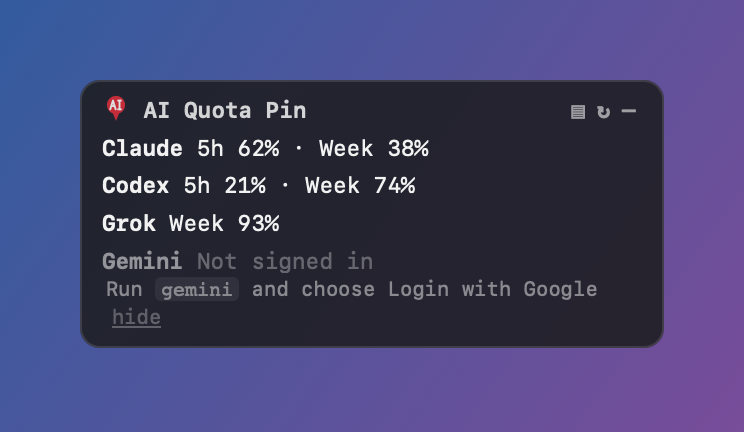
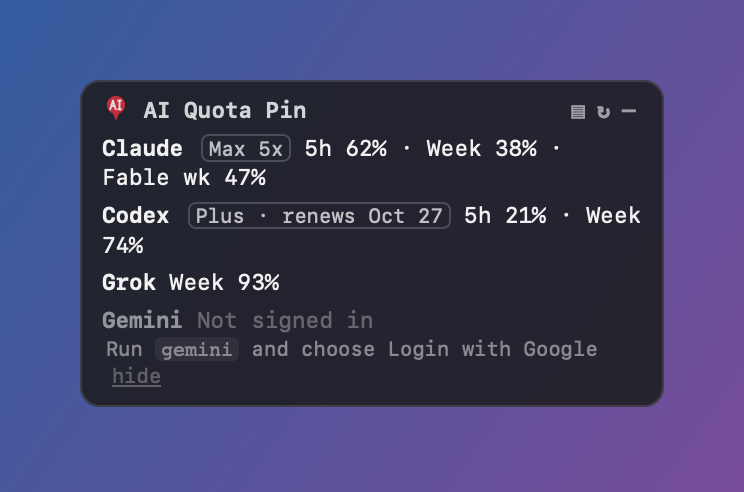
Claude model-specific weekly limits (e.g. Fable) + plan badge; Codex plan & renewal; docs

Changed region(s): [[0.0927, 0.1505, 0.8965, 0.8426], [0.7728, 0.4213, 0.8656, 0.4514]]

diff --git a/ui/app.js b/ui/app.js
@@ -21,9 +21,10 @@ function render() {
       return `<div class="w"><span class="lbl">${esc(w.label)}</span>${w.used == null ? `<span class="det">${esc(w.detail)}</span>` : `<span class="bar ${cls}"><i style="width:${Math.min(p, 100)}%"></i></span><span class="pct">${p}%</span>`}<span class="rs">${w.resets_at ? `↻${left(w.resets_at)} · ${at(w.resets_at)}` : ''}</span></div>`;
     }).join('');
     const sum = u.windows.map((w) => w.used == null ? `${esc(w.label)} ${esc(w.detail)}` : `${esc(w.label)} ${Math.round(w.used)}%`).join(' · ');
+    const plan = u.plan ? ` <span class="plan">${esc(u.plan)}${u.renews_at ? ` · renews ${new Date(u.renews_at * 1000).toLocaleDateString([], { month: 'short', day: 'numeric' })}` : ''}</span>` : '';
     const note = u.note ? ` <span class="note">${esc(u.note)}</span>` : '';
     const hint = u.status === 'signin' ? `<div class="hint">${esc(u.hint).replace(/`([^`]+)`/g, '<code>$1</code>')} <button class="x" data-hide="${esc(u.id)}" title="Hide this provider">hide</button></div>` : '';
-    return `<div class="p ${u.status === 'na' || u.status === 'signin' ? 'na' : ''}" data-tauri-drag-region><span class="pn">${esc(u.name)}</span> ${u.windows.length ? `<span class="sum">${sum}</span>` : ''}${u.status === 'na' || u.status === 'signin' || !compact ? note : ''}${hint}${ws}</div>`;
+    return `<div class="p ${u.status === 'na' || u.status === 'signin' ? 'na' : ''}" data-tauri-drag-region><span class="pn">${esc(u.name)}</span>${plan} ${u.windows.length ? `<span class="sum">${sum}</span>` : ''}${u.status === 'na' || u.status === 'signin' || !compact ? note : ''}${hint}${ws}</div>`;
   }).join('') || '<div class="na">No AI tools detected</div>';
   if (html === last && compact === lastC && !document.body.classList.contains('collapsed')) return; // nothing changed: skip DOM + resize
   last = html; lastC = compact; $('rows').innerHTML = html;

diff --git a/ui/style.css b/ui/style.css
@@ -11,3 +11,4 @@ button{background:none;border:0;color:inherit;font:inherit;cursor:pointer;opacit
 body.collapsed #note{display:none}body.collapsed #pin{display:block}
 .compact .w{display:none}.compact .sum{display:inline}.sum{display:none}
 .det{width:104px;opacity:.85}
+.plan{font-size:10px;opacity:.75;border:1px solid rgba(255,255,255,.25);border-radius:4px;padding:0 3px;margin-left:2px}

diff --git a/src-tauri/src/providers/claude.rs b/src-tauri/src/providers/claude.rs
@@ -33,11 +33,68 @@ fn read_token() -> Option<String> {
     None
 }
 
+/// Usage windows. Prefers the generic `limits` list, which names model-specific weekly
+/// allowances (e.g. `kind: weekly_scoped, scope.model.display_name: "Fable"`), so new models
+/// appear automatically. Falls back to the older `five_hour` / `seven_day*` objects.
 fn parse(b: &Value) -> Vec<Window> {
-    [("five_hour", "5h"), ("seven_day", "Week"), ("seven_day_opus", "Opus wk"), ("seven_day_sonnet", "Sonnet wk")]
-        .iter().filter(|(k, _)| b[*k].is_object())
-        .map(|(k, l)| Window { label: l.to_string(), used: num(&b[*k]["utilization"]), resets_at: ts(&b[*k]["resets_at"]), detail: None })
-        .collect()
+    let mut out = Vec::new();
+    for l in b["limits"].as_array().into_iter().flatten() {
+        let scope = l["scope"]["model"]["display_name"].as_str().or(l["scope"]["surface"].as_str());
+        let label = match (l["kind"].as_str().unwrap_or(""), scope) {
+            ("session", _) => "5h".to_string(),
+            ("weekly_all", _) => "Week".to_string(),
+            (k, Some(m)) if k.starts_with("weekly") => format!("{m} wk"),
+            (k, Some(m)) => format!("{m} {k}"),
+            (k, None) => k.replace('_', " "),
+        };
+        out.push(Window { label, used: num(&l["percent"]), resets_at: ts(&l["resets_at"]), detail: None });
+    }
+    if out.is_empty() {
+        let mut keys: Vec<_> = b.as_object().into_iter().flatten()
+            .filter(|(k, v)| (k.as_str() == "five_hour" || k.starts_with("seven_day")) && v["utilization"].is_number()).collect();
+        keys.sort_by_key(|(k, _)| (k.as_str() != "five_hour", k.as_str() != "seven_day", k.to_string()));
+        for (k, v) in keys {
+            let label = match k.as_str() { "five_hour" => "5h".into(), "seven_day" => "Week".into(),
+                k => format!("{} wk", { let m = k.trim_start_matches("seven_day_"); let mut c = m.chars(); c.next().map(|f| f.to_uppercase().collect::<String>() + c.as_str()).unwrap_or_default() }) };
+            out.push(Window { label, used: num(&v["utilization"]), resets_at: ts(&v["resets_at"]), detail: None });
+        }
+    }
+    out
+}
+
+fn plan_name(org_type: &str, tier: &str) -> Option<String> {
+    let t = tier.to_lowercase();
+    Some(if t.contains("max_20x") { "Max 20x" } else if t.contains("max_5x") { "Max 5x" }
+        else if org_type.contains("max") || t == "max" { "Max" } else if org_type.contains("pro") || t == "pro" { "Pro" }
+        else if org_type.contains("team") || t == "team" { "Team" } else if org_type.contains("enterprise") || t == "enterprise" { "Enterprise" }
+        else { return None }.to_string())
+}
+fn profile_path() -> PathBuf { dirs::config_dir().unwrap_or_default().join("ai-quota-pin/claude-plan.json") }
+const PROFILE_EVERY: i64 = 6 * 3600;
+
+/// Plan via /api/oauth/profile (what Claude Code uses), at most every 6 h, cached on disk.
+/// Only the plan label is stored — never name, email or ids. The profile has no renewal date.
+fn plan(token: &str) -> Option<String> {
+    let cached = read_json(&profile_path());
+    if let Some(c) = &cached { if now() - c["at"].as_i64().unwrap_or(0) < PROFILE_EVERY { return c["plan"].as_str().map(String::from); } }
+    let fresh = get_json(agent().get("https://api.anthropic.com/api/oauth/profile")
+        .set("Authorization", &format!("Bearer {token}")).set("anthropic-beta", "oauth-2025-04-20")).ok()
+        .and_then(|p| plan_name(p["organization"]["organization_type"].as_str().unwrap_or(""), p["organization"]["rate_limit_tier"].as_str().unwrap_or("")));
+    // Fall back to what Claude Code stored with its credentials.
+    let fresh = fresh.or_else(|| cached.as_ref().and_then(|c| c["plan"].as_str().map(String::from))).or_else(local_plan);
+    let _ = std::fs::create_dir_all(profile_path().parent().unwrap());
+    let _ = std::fs::write(profile_path(), serde_json::to_vec(&serde_json::json!({ "at": now(), "plan": fresh })).unwrap());
+    fresh
+}
+fn local_plan() -> Option<String> {
+    let c = read_json(&dir().join(".credentials.json")).or_else(|| {
+        #[cfg(target_os = "macos")]
+        { let o = std::process::Command::new("/usr/bin/security").args(["find-generic-password", "-s", "Claude Code-credentials", "-w"]).output().ok()?;
+          return serde_json::from_slice(&o.stdout).ok(); }
+        #[allow(unreachable_code)] None
+    })?;
+    let o = &c["claudeAiOauth"];
+    plan_name(o["subscriptionType"].as_str().unwrap_or(""), o["rateLimitTier"].as_str().unwrap_or(""))
 }
 
 /// Rough local fallback: tokens Claude Code logged in the last 5 hours (ccusage-style JSONL scan,
@@ -94,7 +151,8 @@ impl Provider for Claude {
             if let Some(c) = read_json(&cache_path()) {
                 let at = c["at"].as_i64().unwrap_or(0);
                 let w = parse(&c["body"]);
-                if !w.is_empty() { let mut u = Usage::ok(self, w, None); u.updated_at = at; st.last = Some(u); }
+                if !w.is_empty() { let mut u = Usage::ok(self, w, None); u.updated_at = at;
+                    u.plan = read_json(&profile_path()).and_then(|c| c["plan"].as_str().map(String::from)).or_else(local_plan); st.last = Some(u); }
                 if now() - at < MIN_GAP { st.next_at = at + MIN_GAP; }
             }
         }
@@ -113,7 +171,8 @@ impl Provider for Claude {
                     st.backoff = 0;
                     let _ = std::fs::create_dir_all(cache_path().parent().unwrap());
                     let _ = std::fs::write(cache_path(), serde_json::to_vec(&serde_json::json!({ "at": now(), "body": b })).unwrap());
-                    let u = Usage::ok(self, parse(&b), None);
+                    let mut u = Usage::ok(self, parse(&b), None);
+                    u.plan = plan(&t);
                     st.last = Some(u.clone());
                     return u;
                 }

diff --git a/src-tauri/src/providers/mod.rs b/src-tauri/src/providers/mod.rs
@@ -33,11 +33,15 @@ pub struct Usage {
     /// One-line fix for "signin", e.g. "Run `claude` and log in".
     pub hint: Option<String>,
     pub updated_at: i64,
+    /// Plan name as reported by the provider (e.g. "Max 20x", "Plus"). Never inferred.
+    pub plan: Option<String>,
+    /// Next renewal/billing date (unix s) only when the provider states one; never computed.
+    pub renews_at: Option<i64>,
 }
 
 impl Usage {
     pub fn ok(p: &dyn Provider, windows: Vec<Window>, note: Option<String>) -> Self {
-        Usage { id: p.id().into(), name: p.name().into(), windows, note, status: "ok".into(), updated_at: now(), hint: None }
+        Usage { id: p.id().into(), name: p.name().into(), windows, note, status: "ok".into(), updated_at: now(), ..Default::default() }
     }
     /// Login missing or expired. The app never asks for passwords; the user fixes it in the provider's own CLI.
     pub fn signin(p: &dyn Provider) -> Self {
@@ -91,10 +95,10 @@ pub fn get_json(req: ureq::Request) -> Result<Value, String> {
 /// Fake data for screenshots and UI work: run with `AIQP_DEMO=1`. Makes no file or network access.
 pub fn demo() -> Vec<Usage> {
     let w = |l: &str, u: f64, h: i64| Window { label: l.into(), used: Some(u), resets_at: Some(now() + h * 3600), detail: None };
-    let ok = |id: &str, name: &str, ws, note: Option<&str>| Usage { id: id.into(), name: name.into(), windows: ws, note: note.map(Into::into), status: "ok".into(), updated_at: now(), hint: None };
+    let ok = |id: &str, name: &str, ws, note: Option<&str>| Usage { id: id.into(), name: name.into(), windows: ws, note: note.map(Into::into), status: "ok".into(), updated_at: now(), ..Default::default() };
     vec![
-        ok("claude", "Claude", vec![w("5h", 62.0, 2), w("Week", 38.0, 100)], None),
-        ok("codex", "Codex", vec![w("5h", 21.0, 4), w("Week", 74.0, 60)], Some("plus")),
+        Usage { plan: Some("Max 5x".into()), ..ok("claude", "Claude", vec![w("5h", 62.0, 2), w("Week", 38.0, 100), w("Fable wk", 47.0, 100)], None) },
+        Usage { plan: Some("Plus".into()), renews_at: Some(now() + 12 * 86400), ..ok("codex", "Codex", vec![w("5h", 21.0, 4), w("Week", 74.0, 60)], None) },
         ok("grok", "Grok", vec![w("Week", 93.0, 30)], None),
         Usage { id: "gemini".into(), name: "Gemini".into(), note: Some("Not signed in".into()), hint: Some("Run `gemini` and choose Login with Google".into()), status: "signin".into(), updated_at: now(), ..Default::default() },
     ]

diff --git a/src-tauri/src/providers/codex.rs b/src-tauri/src/providers/codex.rs
@@ -50,6 +50,26 @@ fn local() -> Option<(Vec<Window>, Option<String>, i64)> {
     None
 }
 
+fn pretty_plan(p: &str) -> String {
+    match p { "prolite" => "Pro Lite".into(), "plus" => "Plus".into(), "pro" => "Pro".into(), "team" => "Team".into(),
+        "business" => "Business".into(), "enterprise" => "Enterprise".into(), "edu" => "Edu".into(), "free" => "Free".into(), o => o.to_string() }
+}
+
+/// Plan + renewal from the id_token claims Codex already stores (no network). The renewal date is
+/// `chatgpt_subscription_active_until`; it is only shown while it is still in the future.
+fn account() -> (Option<String>, Option<i64>) {
+    use base64::Engine;
+    let claims = read_json(&home_dir().join("auth.json")).and_then(|a| {
+        let p = a["tokens"]["id_token"].as_str()?.split('.').nth(1)?.to_string();
+        let b = base64::engine::general_purpose::URL_SAFE_NO_PAD.decode(p.trim_end_matches('=')).ok()?;
+        serde_json::from_slice::<Value>(&b).ok()
+    });
+    let c = claims.as_ref().map(|c| &c["https://api.openai.com/auth"]);
+    let plan = c.and_then(|c| c["chatgpt_plan_type"].as_str()).map(pretty_plan);
+    let until = c.and_then(|c| ts(&c["chatgpt_subscription_active_until"])).filter(|t| *t > now());
+    (plan, until)
+}
+
 impl Provider for Codex {
     fn id(&self) -> &'static str { "codex" }
     fn name(&self) -> &'static str { "Codex" }
@@ -57,6 +77,17 @@ impl Provider for Codex {
     fn hint(&self) -> &'static str { "Run `codex login`" }
     fn detect(&self) -> bool { home_dir().exists() }
     fn fetch(&self) -> Usage {
+        let mut u = self.fetch_usage();
+        let (plan, until) = account();
+        u.plan = plan.or_else(|| u.note.take().map(|n| pretty_plan(n.split(' ').next().unwrap_or(&n))));
+        if u.note.as_deref().map_or(false, |n| !n.contains("last session")) { u.note = None; }
+        u.renews_at = until;
+        u
+    }
+}
+
+impl Codex {
+    fn fetch_usage(&self) -> Usage {
         let loc = local();
         // Fresh local data (< 30 min old) costs no network at all.
         if let Some((w, plan, m)) = &loc { if now() - m < 1800 { return Usage::ok(self, w.clone(), plan.clone()); } }

diff --git a/README.md b/README.md
@@ -20,6 +20,7 @@ Runs on **macOS, Windows and Linux**. The app is about 5 MB, uses about 25 MB of
 |---|---|---|
 | <img src="docs/expanded.png" width="300"> | <img src="docs/compact.png" width="300"> | <img src="docs/collapsed.png" width="100"> |
 
+- **Plan badge**: next to each provider name, e.g. `Max 20x` or `Plus · renews Oct 27`. Shown only when the provider reports it; dates are never guessed.
 - **Expanded**: one row per usage window, with a bar (green, then yellow at 70%, red at 90%), % used, time until reset and the local reset time.
 - **Compact** (the `▤` button or the tray): one line per provider.
 - **Collapsed** (the `–` button): the panel shrinks to a small **AI pin**. Click the pin to expand it again. Drag it to move it.
@@ -38,9 +39,9 @@ Runs on **macOS, Windows and Linux**. The app is about 5 MB, uses about 25 MB of
 ## Supported providers
 | Provider | What it needs | Shows | Data source |
 |---|---|---|---|
-| Claude Code | Signed in with `claude` (Pro/Max) | 5h + weekly % (+ Opus/Sonnet weekly when present), resets | macOS Keychain `Claude Code-credentials`, or `~/.claude/.credentials.json` (`CLAUDE_CONFIG_DIR`). Calls Anthropic's OAuth usage endpoint. If that fails, estimates from `~/.claude/projects/**/*.jsonl` |
-| Codex | Signed in with `codex login` (ChatGPT plan) | 5h / weekly %, resets, plan | Newest `~/.codex/sessions/**/*.jsonl` `rate_limits` (no network needed). Falls back to `~/.codex/auth.json` and ChatGPT's usage endpoint (`CODEX_HOME`) |
-| Grok | Signed in with `grok login` | Weekly credit %, reset, use per product | `~/.grok/auth.json` (`GROK_HOME`) and the Grok CLI billing endpoint |
+| Claude Code | Signed in with `claude` (Pro/Max/Team) | 5h + weekly %, **every model-specific weekly limit** (e.g. *Fable wk*, from the `limits` list's `weekly_scoped` entries; new models appear automatically), resets. **Plan** (Pro / Max 5x / Max 20x / Team) from `/api/oauth/profile`, checked at most every 6 h and cached. No renewal date: Anthropic doesn't expose one | macOS Keychain `Claude Code-credentials`, or `~/.claude/.credentials.json` (`CLAUDE_CONFIG_DIR`). Calls Anthropic's OAuth usage and profile endpoints. If they fail, estimates from `~/.claude/projects/**/*.jsonl` |
+| Codex | Signed in with `codex login` (ChatGPT plan) | 5h / weekly %, resets. **Plan** and **renewal date** from the `chatgpt_plan_type` / `chatgpt_subscription_active_until` claims in Codex's stored sign-in token (no network; the date is shown only while it is still in the future) | Newest `~/.codex/sessions/**/*.jsonl` `rate_limits` (no network needed). Falls back to `~/.codex/auth.json` and ChatGPT's usage endpoint (`CODEX_HOME`) |
+| Grok | Signed in with `grok login` | Weekly credit %, reset, use per product. Plan name not available from the CLI billing endpoint | `~/.grok/auth.json` (`GROK_HOME`) and the Grok CLI billing endpoint |
 | Cursor | Cursor app signed in | Monthly plan %, end of billing cycle | Cursor's `state.vscdb`, opened read-only, and Cursor's usage-summary endpoint |
 | Gemini CLI | `gemini` signed in with Google | Sign-in status only (no public quota API yet) | `~/.gemini/oauth_creds.json` |
 
